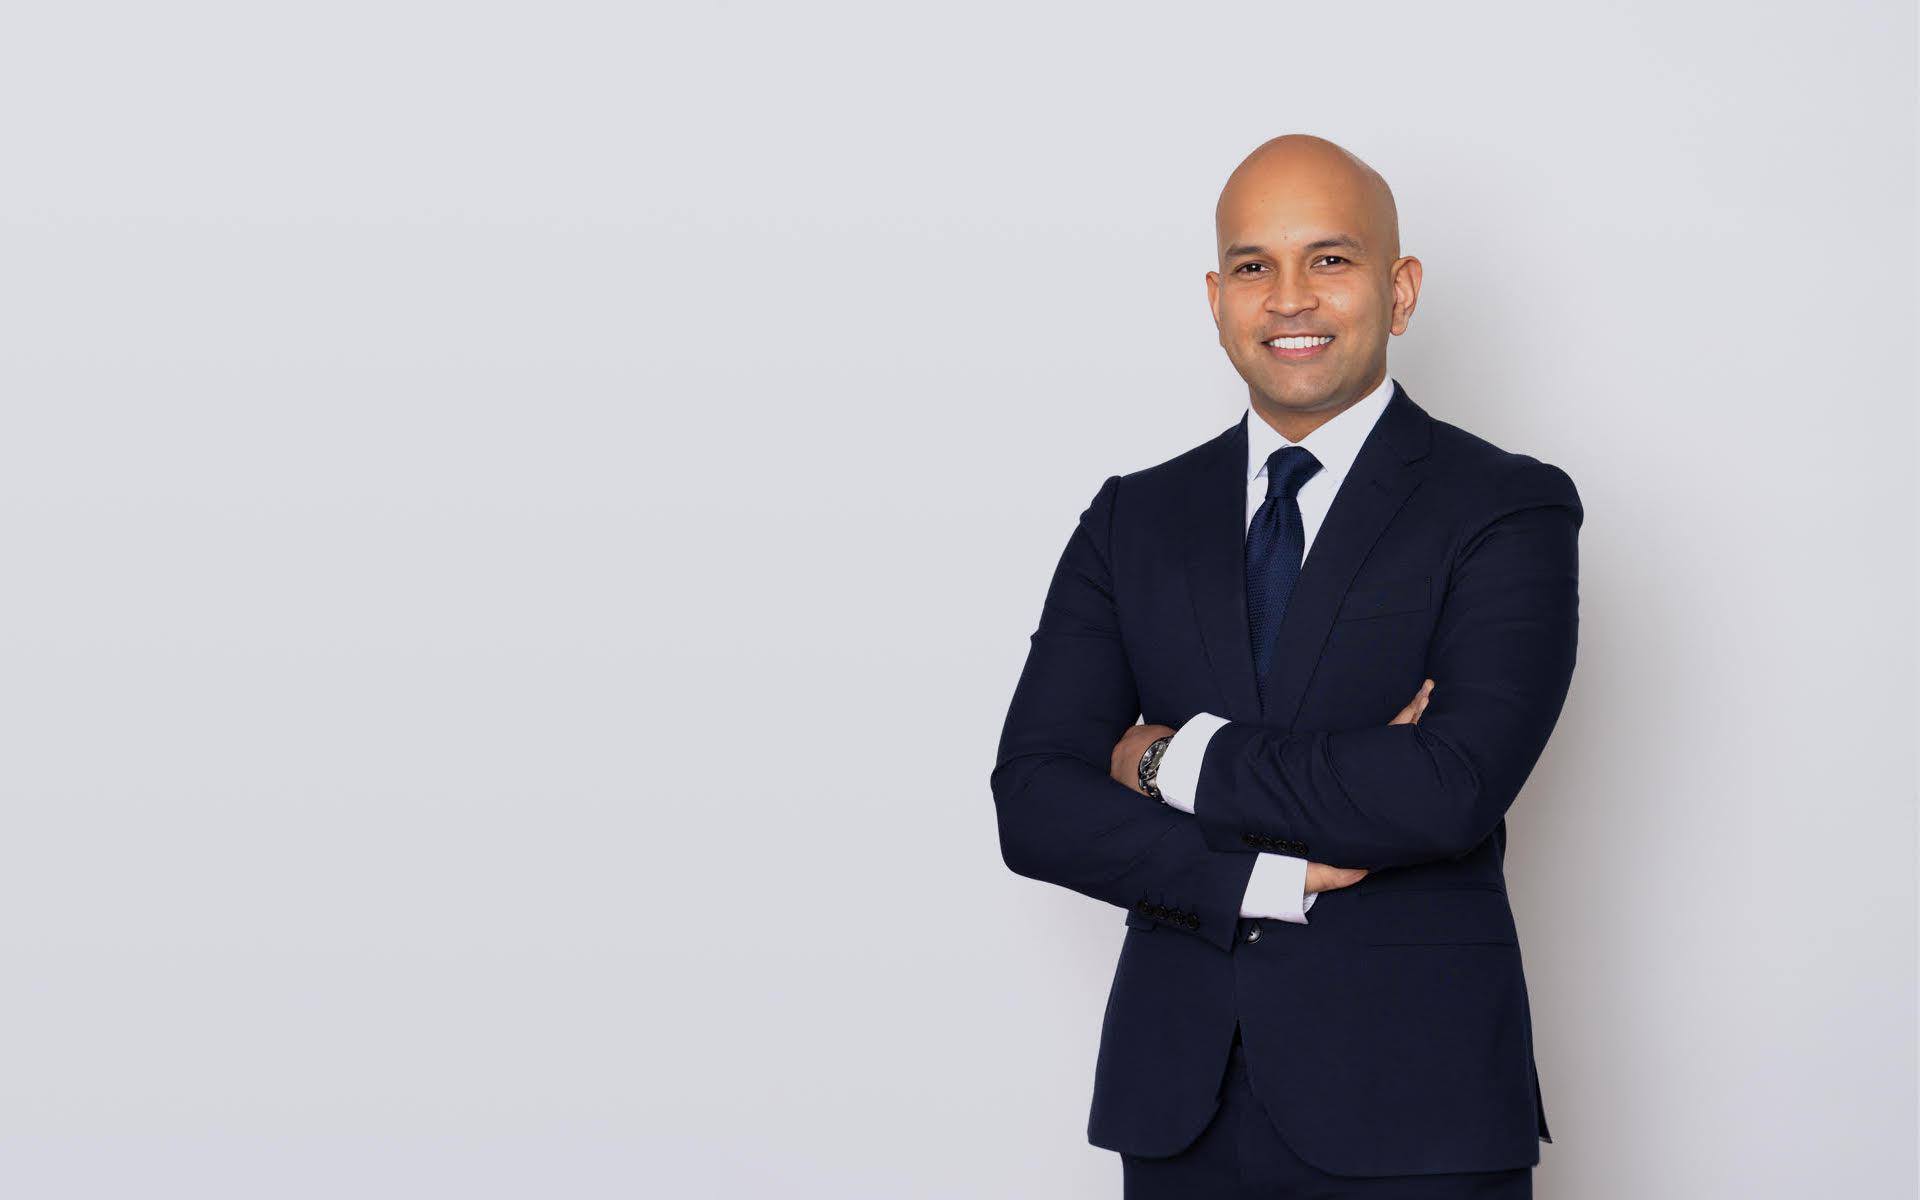
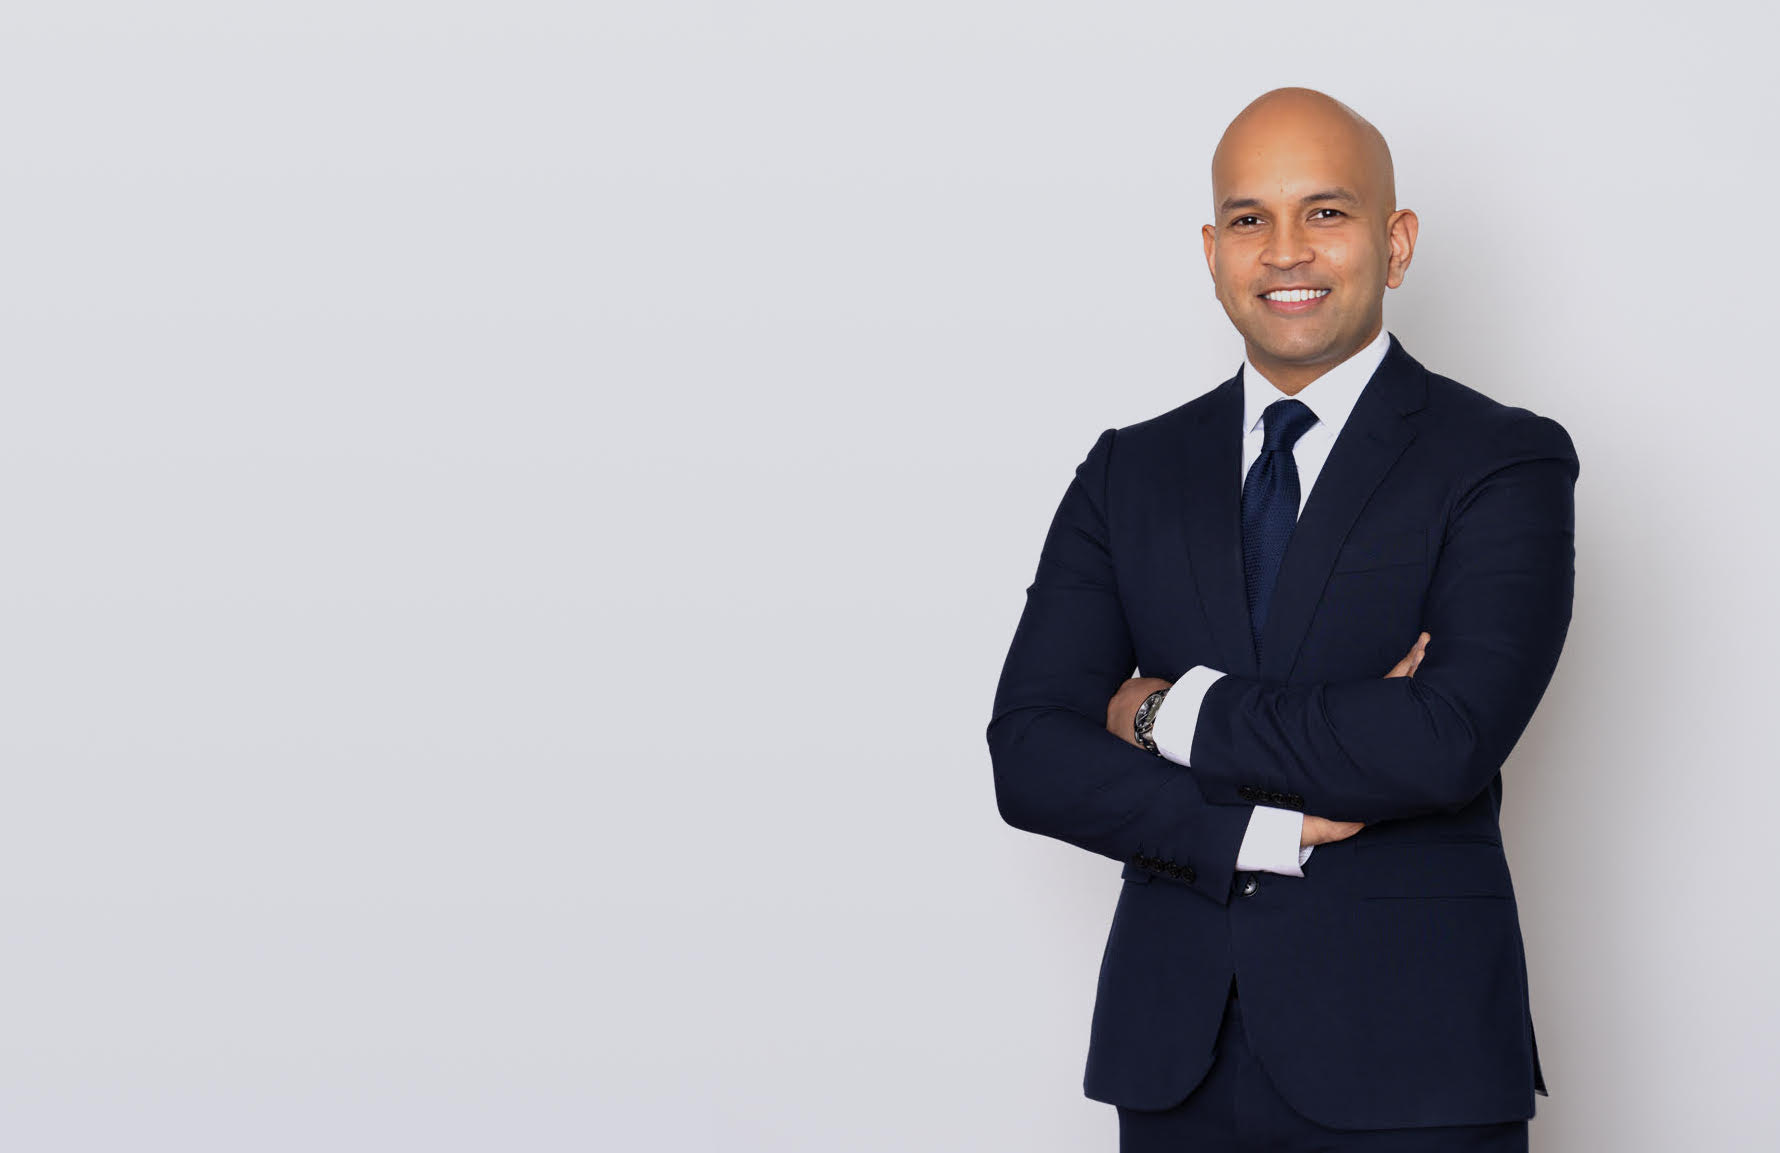
hero bg layout and tablet style fix

Changed region(s): [[0.4944, 0.0624, 0.9579, 1.0], [0.6798, 0.843, 0.7107, 0.9367], [0.7107, 0.562, 0.7416, 0.6245]]

diff --git a/themes/asa/assets/css/components.css b/themes/asa/assets/css/components.css
@@ -419,8 +419,7 @@
     grid-row: 2;
     
     a img {
-      /* margin-left: 5px; */
-      margin: 0 auto;
+      margin-left: 5px;
       max-width: 300px;
     }
   }
@@ -431,6 +430,16 @@
     position: relative;
     padding-top: var(--space-4);
     padding-bottom: var(--space-4);
+  }
+
+  .site-header__logo_right a img {
+    margin-left: 0;
+  }
+}
+
+@media (max-width: 743px) {
+  .site-header__logo_right a img {
+    margin: 0 auto;
   }
 }
 
@@ -1048,7 +1057,7 @@
   }
 
   .hero-home__image {
-    object-position: center center;
+    object-position: center top;
   }
 
   .hero-home__content {